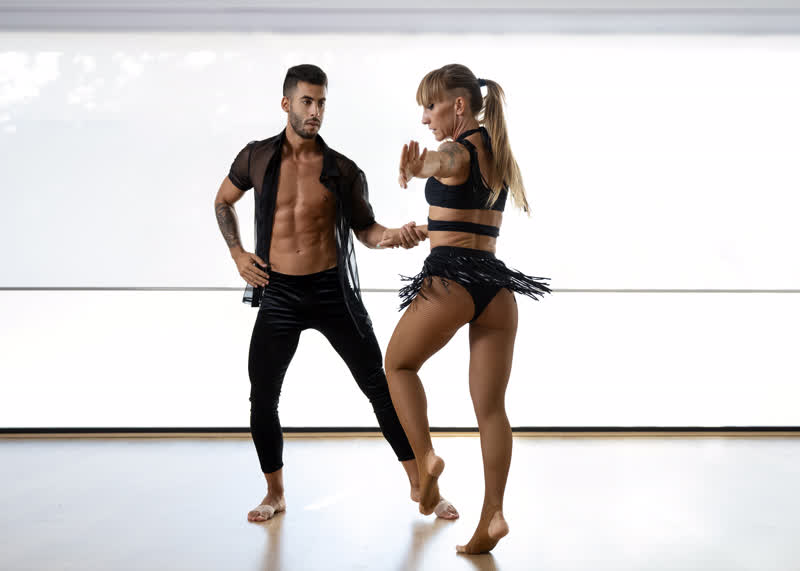
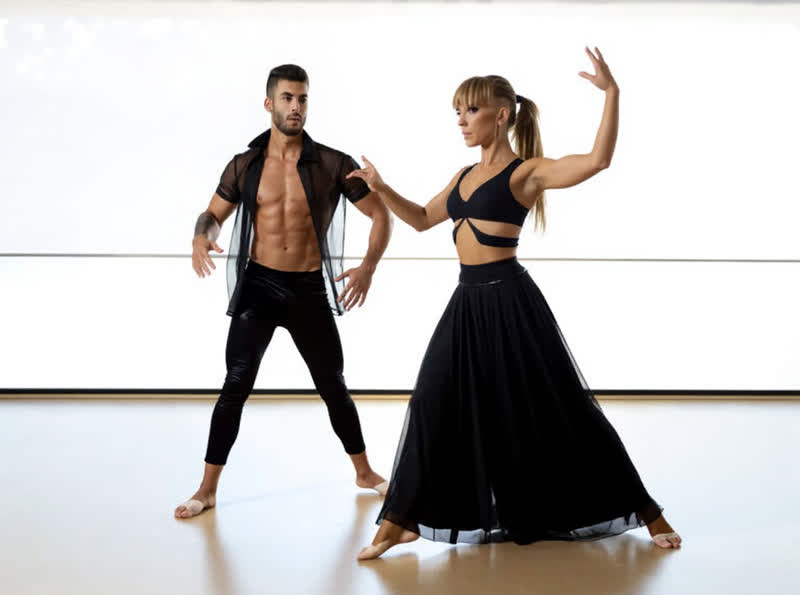
💅 style: update salsa course image

diff --git a/src/app/(home)/page.tsx b/src/app/(home)/page.tsx
@@ -166,36 +166,7 @@ export default async function Home() {
         <div>
           <figure>
             <Image
-              src={"/images/chateaux-roques/21.jpeg"}
-              alt="Soirée 100%, 100% danse et repas aux chateaux de roques, à 09100 Teilhet"
-              width={802}
-              height={1134}
-            />
-            <figcaption>
-              <h3>Soirée 100% danse et repas</h3>
-              <div>
-                <p className="date">
-                  <img src="/images/date.svg" alt="" />
-                  24 Mai
-                </p>
-                <p className="address">
-                  <img src="/images/address.svg" alt="" />
-                  Chateaux de roques
-                </p>
-              </div>
-              <p>
-                50% Latino Salsa-Bachata-Kizomba <br />
-                50% Rock-Swing <br />
-                Animations, Initiations, Danses en lignes <br />
-              </p>
-              <a href="/events/soiree-chateaux-roques-24-05" className="btn">
-                En savoir plus ?
-              </a>
-            </figcaption>
-          </figure>
-          <figure>
-            <Image
-              src={"/images/laroque-1.jpg"}
+              src={"/images/fetes-musique-2025.jpeg"}
               alt="Fêtes de la musique carnavalesque à Laroque d’olmes"
               width={802}
               height={1134}

diff --git a/src/scss/pages/_home.scss b/src/scss/pages/_home.scss
@@ -77,7 +77,7 @@ section.events.home-events > div {
     box-shadow: 0 0 20px rgba(0, 0, 0, 0.2);
     display: flex;
     flex-direction: column;
-    &:last-of-type img {
+    & img {
       margin: 0.5rem auto 0;
     }
   }
@@ -151,7 +151,6 @@ section.events h3 {
   }
   section.events.home-events > div {
     figure {
-      width: 32%;
     }
     img {
       max-width: 100%;
